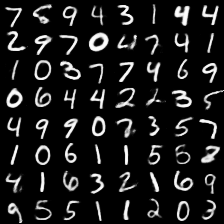
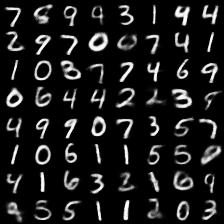
bn: add nodes and cache

diff --git a/framework/bn.py b/framework/bn.py
@@ -1,5 +1,3 @@
-
-
 """ Bayesian Network """
 import numpy as np
 import paddle
@@ -13,6 +11,16 @@ class BayesianNet(paddle.nn.Layer):
     """
     def __init__(self):
         super(BayesianNet, self).__init__()
+        self._nodes = {}
+        self._cache = {}
+
+    @property
+    def nodes(self):
+        return self._nodes
+
+    @property
+    def cache(self):
+        return self._nodes
 
     def Normal(self,
                name,
@@ -57,7 +65,7 @@ class BayesianNet(paddle.nn.Layer):
         log_prob_sample = c - logstd - 0.5 * precision * paddle.square(sample - mean)
 
         log_prob = fluid.layers.reduce_sum(log_prob_sample, dim=1)
-        # log_prob = self.reduce_sum(self.normal_dist('log_prob', sample, mean, std), 1)
+        
         nodes[name] = (sample, log_prob)
         #print('sample shape:' , sample.shape)
         #print('log_prob shape:' , log_prob.shape)
@@ -72,14 +80,12 @@ class BayesianNet(paddle.nn.Layer):
                   seed=0,
                   dtype='float32',
                   shape=()):
-
         """ Bernoulli distribution wrapper """
 
         assert not name is None
         assert not nodes is None
         assert not seed is None
         assert not dtype is None
-
 
         #print(observation.keys())
         if name in observation.keys():
@@ -93,17 +99,14 @@ class BayesianNet(paddle.nn.Layer):
 
         ## Log Prob
         # print(sample.keys())
-        #log_prob_sample = -fluid.layers.sigmoid_cross_entropy_with_logits(label=probs, x=sample) # check mark
         #logits = paddle.log(probs /(1-probs))
         #log_prob_sample = -fluid.layers.sigmoid_cross_entropy_with_logits(label=sample, x=logits) # check mark
-        log_prob_sample = sample * paddle.log(probs) + (1 - sample) * paddle.log(1-probs)
+
+        log_prob_sample = sample * paddle.log(probs + 1e-8) + (1 - sample) * paddle.log(1 - probs + 1e-8)
 
         log_prob = fluid.layers.reduce_sum(log_prob_sample, dim=1)
-        # log_prob = self.reduce_sum(self.bernoulli_dist('log_prob', sample, probs), 1)
 
         nodes[name] = (sample, log_prob)
-        #print('sample shape:' , sample.shape)
-        #print('log_prob shape:' , log_prob.shape)
         assert([sample.shape[0]] == log_prob.shape)
         return nodes #sample, log_prob
 

diff --git a/examples/vae.py b/examples/vae.py
@@ -46,7 +46,7 @@ class Generator(BayesianNet):
         try:
             batch_len = observed['z'].shape[0]
         except:
-            batch_len = 64
+            batch_len = 100
 
         sd = fluid.layers.ones(shape=(batch_len, self.z_dim), dtype='float32')
         mean = fluid.layers.zeros(shape=(batch_len, self.z_dim), dtype='float32')
@@ -58,12 +58,15 @@ class Generator(BayesianNet):
                             nodes=nodes, reparameterize=False)
 
         z = nodes['z'][0]
-        x_probs = self.act2_(self.fc2_(self.act2(self.fc2(self.act1(self.fc1(z)))))) + 1e-8
+        x_probs = self.act2_(self.fc2_(self.act2(self.fc2(self.act1(self.fc1(z))))))
 
         nodes['x_mean'] = (x_probs, 0,)
+
+        self.cache['x_mean'] = (x_probs, 0,)
+
         nodes = self.Bernoulli('x', shape=(()), observation=observed,
                                nodes=nodes, probs=x_probs)
-        return nodes
+        return nodes, self
 
 
 class Variational(BayesianNet):
@@ -126,7 +129,7 @@ class MyDataset(Dataset):
 
 def main():
 
-    epoch_size = 200 #3000
+    epoch_size = 3 #3000
     batch_size = 64
 
     # Define model parameters
@@ -174,7 +177,7 @@ def main():
 
     nodes_q = variational({'x': paddle.to_tensor(batch_x)})
     z, _ = nodes_q['z']
-    nodes_p = generator({'z': z})
+    nodes_p, _ = generator({'z': z})
 
     sample = nodes_p['x_mean'][0].numpy()
 
@@ -185,7 +188,8 @@ def main():
     # plt.figure(0)
     # cv2.imshow('input',batch_x[0])
 
-    sample_gen = generator({})['x_mean'][0].numpy()
+    _, net = generator({})
+    sample_gen = net.cache['x_mean'][0].numpy()
 
     result_fold = 'result'
     if not os.path.isdir(result_fold):

diff --git a/variational/elbo.py b/variational/elbo.py
@@ -26,7 +26,7 @@ class ELBO(paddle.nn.Layer):
         nodes_q = self.variational({'x': x})
         #print('nodes_q.keys: ', nodes_q.keys())
         z, logqz = nodes_q['z']
-        nodes_p = self.generator({'x': x, 'z': z})
+        nodes_p, _ = self.generator({'x': x, 'z': z})
         #print('nodes_p.keys: ', nodes_p.keys())
         logpxz = self.log_joint(nodes_p)
         elbo = fluid.layers.reduce_mean(logpxz - logqz)
